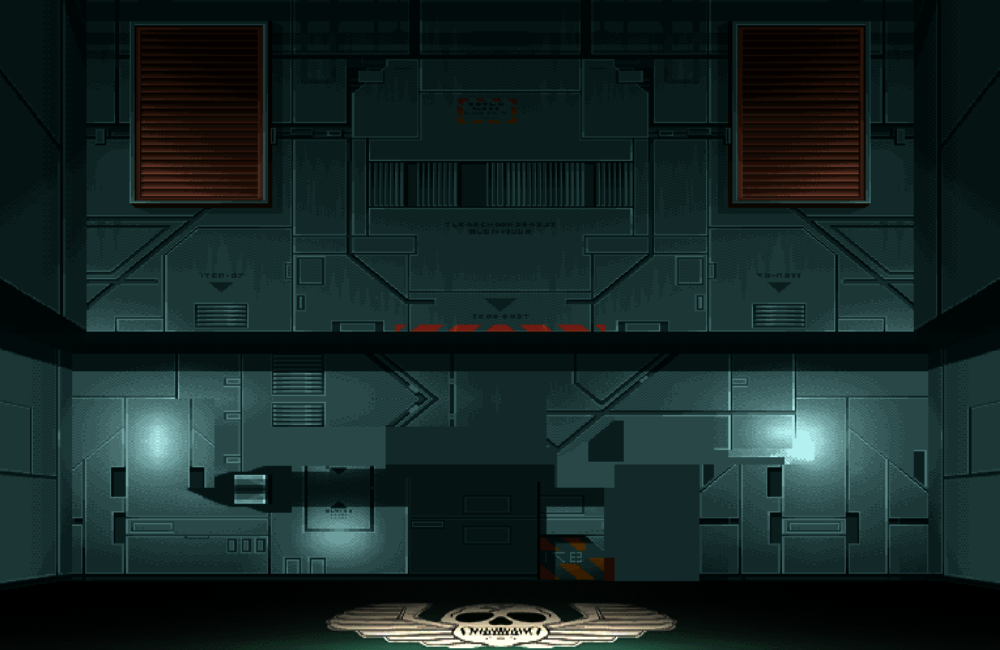
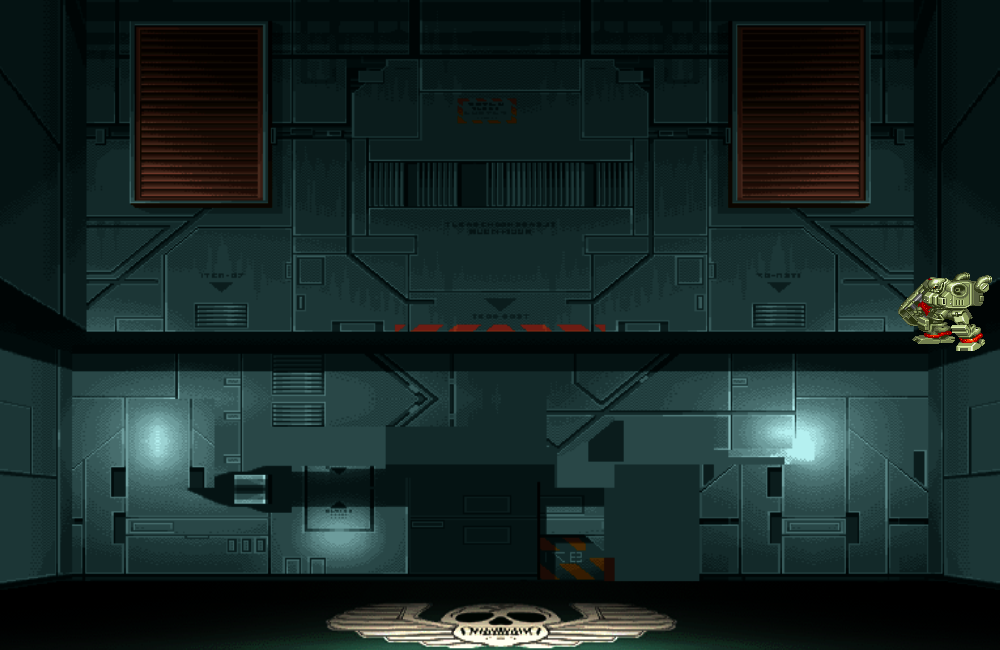
Se ha agregado indicador de vidas a los niveles del juego

Changed region(s): [[0.899, 0.4, 0.992, 0.5538]]

diff --git a/EscenarioDos.py b/EscenarioDos.py
@@ -58,6 +58,7 @@ class EscenarioDos(Escenario):
 		paint.setBrush(self.jugador.getColor())
 		paint.drawEllipse(self.jugador.getPosX(),self.jugador.getPosY(),self.jugador.getRadio(),self.jugador.getRadio())
 		paint.setBrush(Qt.gray)
+		self.dibujarVidas(paint)
 		if self.thread_pintarPasadizo!=None:
 			paint.drawRect(self.tam,Escenario.dimension_y-self.nivel_piso_y,self.thread_pintarPasadizo.valor_X,5)#rectangulo que se mueve
 		paint.end()
@@ -79,7 +80,6 @@ class EscenarioDos(Escenario):
 		painter.drawRect(self.tam,Escenario.dimension_y-20-20,30,20)
 		painter.drawRect(self.tam+self.nivel_piso_x+2*self.tam-30,Escenario.dimension_y-self.nivel_piso_y-20,30,20)
 
-
 	def derecha(self):
 		if self.mover==True: 
 			if self.estadoEscenario==EstadoEscenario.pasadizoOff or self.estadoEscenario==EstadoEscenario.pisoTres:
@@ -98,7 +98,7 @@ class EscenarioDos(Escenario):
 				self.jugador.avanzar()	
 
 	def izquierda(self):
-		if self.mover==True:
+		if self.mover==True and self.jugador.getPosX()>0:
 			if self.estadoEscenario==EstadoEscenario.pasadizoOff or self.estadoEscenario==EstadoEscenario.pisoTres:
 				self.jugador.retroceder()
 			else:
@@ -133,7 +133,7 @@ class EscenarioDos(Escenario):
 			self.hilo=Hilo(self,Accion.caidaLibre)
 			self.hilo.start()
 
-		if self.mover==True and self.jugador.getPosX()>3*self.tam+self.nivel_piso_x+self.nivel_piso_x+75:
+		if self.mover==True and self.jugador.getPosX()>3*self.tam+self.nivel_piso_x+self.nivel_piso_x+70:
 			self.observer.update2()
 			self.mover=False
 			self.detenerHilos()

diff --git a/nivel1.py b/nivel1.py
@@ -58,6 +58,7 @@ class EscenarioUno(Escenario):
 		paint.setPen(pen)
 		paint.drawLine(650,520,650+corxPuente,520-coryPuente) # dibuja el puente
 		self.pintarPalanca(paint)
+		self.dibujarVidas(paint)
 		if (self.jugador!=None):
 			self.pintarJugador(paint)
 		paint.end()
@@ -100,12 +101,13 @@ class EscenarioUno(Escenario):
 	def derecha(self):
 		if self.mover :
 			self.trasladarJugador()
-			if self.mover:
-				self.repaint()
+			self.repaint()
+
 	def izquierda(self):
 		if self.mover:
 			self.jugador.retroceder()
 			self.repaint()
+	
 	def accion(self):
 		if self.mover:
 			self.flaqPalanca=True
@@ -115,8 +117,7 @@ class EscenarioUno(Escenario):
 	def keyPressEvent(self,e):
 		if self.mover and e.key()==QtCore.Qt.Key_Right:
 			self.trasladarJugador()
-			if self.mover:
-				self.repaint()
+			self.repaint()
 		
 		elif self.mover and e.key()==QtCore.Qt.Key_Left:
 			self.jugador.retroceder()
@@ -226,7 +227,7 @@ class HiloCaida(Thread):
 if __name__=="__main__":
 	app=QApplication(sys.argv)	
 	jugador=Jugador(0,0,Qt.white,5)
-	escenario=EscenarioUno(jugador)
+	escenario=EscenarioUno(jugador,None)
 	escenario.show()
 	sys.exit(app.exec_())
 '''

diff --git a/EscenarioTres.py b/EscenarioTres.py
@@ -50,10 +50,8 @@ class EscenarioTres(Escenario):
 		paint.setBrush(self.jugador.getColor())
 		center = QPoint(self.jugador.getPosX(), self.jugador.getPosY())
 		paint.drawEllipse(center,self.jugador.getRadio(),self.jugador.getRadio())
+		self.dibujarVidas(paint)
 		paint.end()
-		
-	
-		
 		
 	#se define el movimiento de el jugador
 	def keyPressEvent(self,e):
@@ -201,10 +199,10 @@ class HiloSalto(Thread):
 			self.escenario.repaint()
 			sleep(0.25)
 
-'''	
+
 if __name__=="__main__":
 	app=QApplication(sys.argv)	
-	escenario_Tres=EscenarioTres()
+	jugador=Jugador(0,0,Qt.white,5)
+	escenario_Tres=EscenarioTres(jugador,None)
 	escenario_Tres.show()
 	sys.exit(app.exec_())
-'''

diff --git a/Escenario.py b/Escenario.py
@@ -21,7 +21,14 @@ class Escenario(QWidget):
 		
 	def informa(self):
 		self._observer.update()
-		
+
+	def dibujarVidas(self,painter):
+		vidas=QImage("vida","png")
+		desplazamiento=0
+		for i in range (self.jugador.getVidas()):
+			painter.drawImage(QPoint(10+desplazamiento,10),vidas)
+			desplazamiento+=55
+
 	def deterHilos(self):
 		pass
 		
